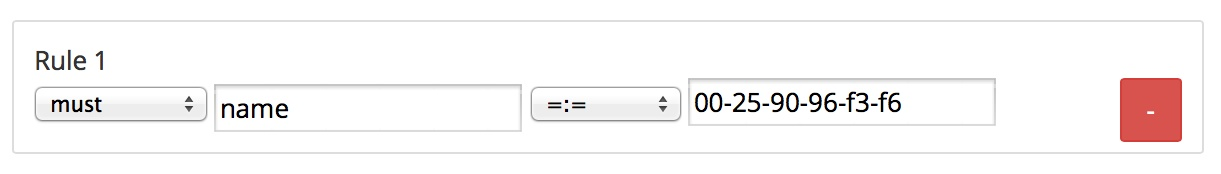
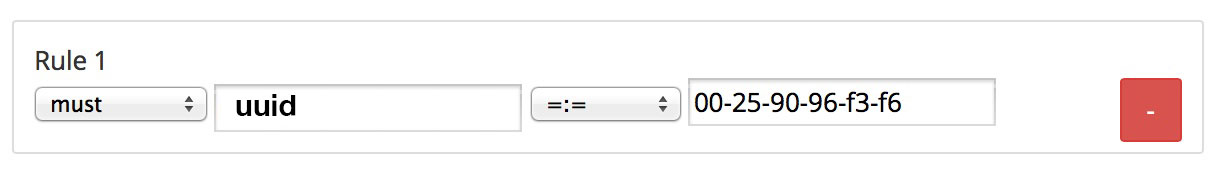
Fix typos, grammar and update relevancy

Changed region(s): [[0.1556, 0.546, 0.249, 0.6897], [0.9337, 0.8046, 0.9648, 0.8333], [0.9337, 0.431, 0.9648, 0.4598]]

diff --git a/jingles/groupings.md b/jingles/groupings.md
@@ -6,20 +6,20 @@ title: Jingles Stacks & Clusters
 ---
 # Stacks & Clusters<a id="list"></a>
 
-With the help of Stacks and Clusters it is possible to 'explain' the design of a application deployed on the FiFo Cloud to the system and help making decisions regarding VM placement.
+With the help of Stacks and Clusters it is possible to 'define' the design of applications deployed within the FiFo Cloud. This helps the system make intelligent decisions regarding VM placement.
 
 ![List](/assets/img/jingles/groupings01.png)
 
-In this view one can get a overview of the Stacks and Clusters known to FiFo. They can be deleted with the little `trash` button at the end of each row and new Stacks or Clusters added via the `New Cluster` or `New Stack` button.
+The above view shows an overview of the Stacks and Clusters known to FiFo. They can be deleted with the little `trash` button at the end of each row. New Stacks or Clusters can be added using the `New Cluster` or `New Stack` button.
 
 ## Clusters<a id="clusters"></a>
-A **Cluster** is a collection of VM's, where the Cluster guarantees that the VM's do not share the same physical hardware - this increasing fault tollerance throught the cluster. A Cluster can only be assigned to a VM at create time, since after the fact the guarantee priovided by Clusters could not be provided.
+A **Cluster** is a collection of VM's. A Cluster guarantees that the VM's do not share the same physical hardware - thus increasing fault tolerance throughout the cluster. A Cluster can only be placed / assigned to a VM at create time. After VM creation the Cluster no longer can guarantee placement. 
 
-However it is possible to remove VM's from a cluster at any point in time. Viewing a cluster shows all the assigned VM's and the **Stacks** it is part of.a
+A VM can be removed from a cluster at any point in time. Viewing a cluster will show all the assigned VM's and **Stacks** it  is part of.
 
 ## Stacks<a id="stacks"></a>
-Unlike a **Cluster** a **Stack** has no guarantees but offers a 'best effort' in placing VM's. A stack is Bouild out of multiple clusters an FiFo will try to place new VM's within a stack (or therefore a cluster within the stack) as close as possible to other VM's in the stack.
+Unlike a **Cluster** a **Stack** has **no** guarantees but offers a 'best effort' in placing VM's. A stack is Built out of multiple clusters. FiFo will try to place new VM's within a stack (or therefore a cluster within the stack) and position it as close as possible to fellow VM's within the same stack.
 
-Please not that only clusters can belong to a stack, VM's can't directly be placed here. However it is fully possible to make a cluster with a single VM in it - this also allows to later extend the functionality of this cluster into more VM's.
+**Please note:** only clusters can belong to a stack, VM's can't directly be placed in a stack. However it is fully possible to make a cluster with a single VM in it. This will also leave room for you to extend the future functionality of the cluster when more VM's are thrown into the mix.
 
-Note that, since no guarantees are given, Clusters can be added or removed from stacks at any time.
+Since clusters do not have guarantees, you may add or remove them at any time from a stack/s.

diff --git a/jingles/topology.md b/jingles/topology.md
@@ -6,10 +6,10 @@ title: Jingles Topology
 ---
 # Topology
 
-Topology allows you explain the layout of your network and datacenter to FiFo, this allows FiFo to make bett decisions when placing your VMs by being able to calculate the distance between hypervisors and by that Mv's.
+Topology is where tell FiFo the layout of your network and datacenter. This allows FiFo to make better decisions when placing your VMs. It does this by calculating the distances between hypervisors and specific VMs.
 
-The topology is expressed by giving each hypervisor a path, the where the first element in a path is the highest in the herachy and the lowest is the last. A top most element for each part is assumed but not shown since it can neither be modifed nor deleted, this ensures all path' are conncted. The last element of a past should be the hypervisor itself which also is the default total past.
+The topology is expressed by giving each hypervisor a path. The "where" the first element in a path is the highest in the hierarchy and the lowest is the last. A top most element for each part is assumed but not shown since it can neither be modified nor deleted, this ensures all path' are connected. The last element of a past should be the hypervisor itself which also is the default total past.
 
-Pathes can be changed by clicking on the hypervisor in the topoligy view, new elements added to the front of the path, the view is automatically cahnged to display the cloud layout in a tree like strucutre.
+Paths can be changed by clicking on the hypervisor in the topology view, new elements added to the front of the path, the view is automatically changed to display the cloud layout in a tree like structure.
 
 ![List](/assets/img/jingles/topology01.png)

diff --git a/jingles/configuration.md b/jingles/configuration.md
@@ -5,6 +5,6 @@ section: jingles/configuration
 title: Jingles Configuration
 ---
 # Jingles Configuration
-The Jinlges configuration file is stored in `/opt/local/fifo-jingles/dist/scripts/config.js` it's a JSON file with configuration values. It is copied during the first installation and does not get overwritten, however the newest configuration can always be found under `/opt/local/fifo-jingles/dist/scripts/config.js.example`
+The Jingles configuration file is stored in `/opt/local/fifo-jingles/dist/scripts/config.js` it's a JSON file with configuration values. It is copied during the first installation and does not get overwritten, however the newest configuration can always be found under `/opt/local/fifo-jingles/dist/scripts/config.js.example`
 
-The remote dataset, the warnings generated and some timeout values can be configured here. Please see the inline comments in the file on how to change settings.
+In this config file you can set the remote dataset server source and set thresholds for dashboard alerts and timeout values. Please see the inline comments within the file on how to make setting changes.

diff --git a/jingles/packages.md b/jingles/packages.md
@@ -34,7 +34,7 @@ Clicking on the "add package" button will take you to the package creation page 
 3. Create optional package rules if you require them. example:
     ![](/assets/img/jingles/packages04.jpg)
 
-    In the above example we are essentially saying that "the name of the hypervisor must equal 00-25-90-96-f3-f6". The result of choosing this package when creating a machine will ensure that the vm/machine only gets created on the hypervisor / compute node call "00-25-90-96-f3-f6"
+    In the above example we are essentially saying that the **"uuid"** of the hypervisor must equal "**00-25-90-96-f3-f6**". The result of choosing this package when creating a machine will ensure that the vm/machine only gets created on the hypervisor / compute node you specified.
 
 4. Click on the <kbd>+</kbd> plus button to create additional package rules.
 

diff --git a/jingles/usermanagement.md b/jingles/usermanagement.md
@@ -4,7 +4,7 @@ category: jingles
 section: jingles/usermanagement
 title: Jingles Usermanagement
 ---
-# Jingles Usermanagement
+# Jingles User Management
 
 ## Users<a id="users"></a>
 
